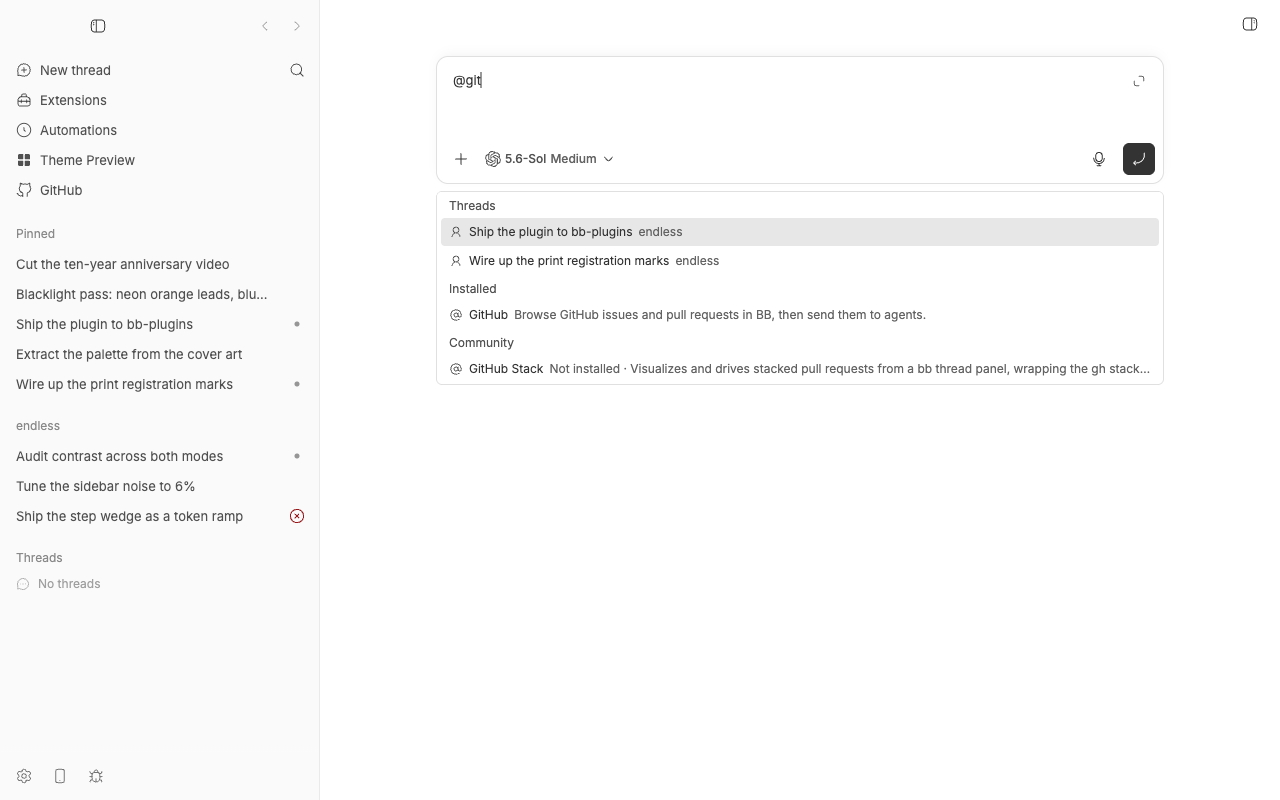
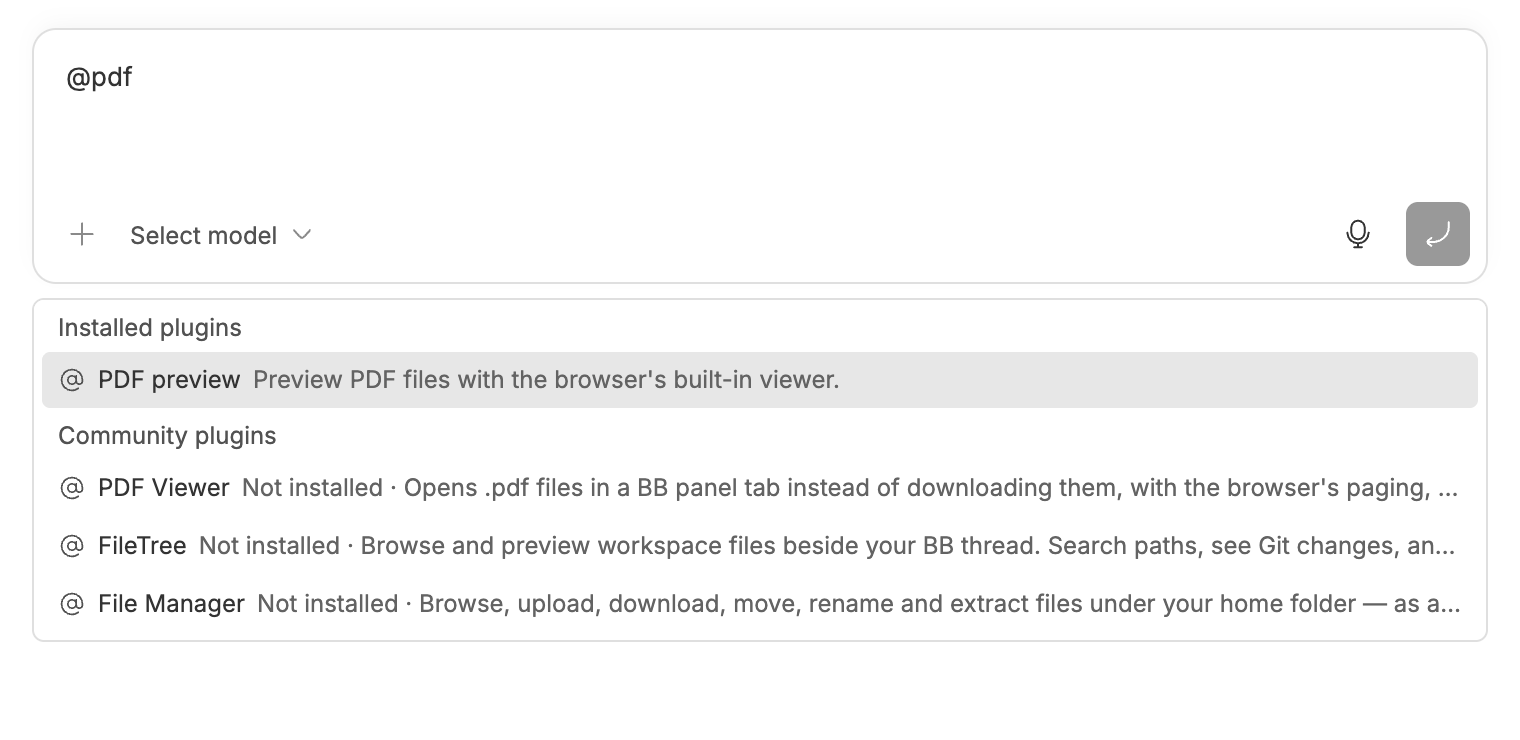
Update @Plugin listing for v0.1.1

diff --git a/overview/at-plugin.md b/overview/at-plugin.md
@@ -1,0 +1,19 @@
+## Find the right plugin
+
+Search from the thread composer to rediscover a plugin you already have or find something new in BB Community. Type `@plugin` to browse, or a keyword such as `@pdf` to search.
+
+Search covers names, plugin IDs, full descriptions, and available long-form overviews. Catalog matches also include tags, category, entry IDs, and marketplace names. It does not search READMEs, documentation sites, or image contents.
+
+## Point your agent at it
+
+Select a result to add a plugin reference to your message. Mention an installed plugin to tell your agent which one to use for the task, or share a Community plugin to discuss whether it fits.
+
+Community plugins need to be installed before use. A mention does not install a plugin or run it automatically.
+
+## Let your agent discover plugins
+
+Ask your agent to find a plugin for the task. It can use `bb at-plugin search "keyword" --json` to search independently, then `bb at-plugin show <plugin-id> --json` to inspect a result. Results include available overview text and screenshot links so the agent can inspect or show you the images.
+
+## Availability
+
+Installed results include all enabled, running plugins. Community results include compatible plugins you have not installed. Overview and image availability depend on the listing and BB version. Bare `@` does not show plugin results; use `@plugin` or enter a search term.
